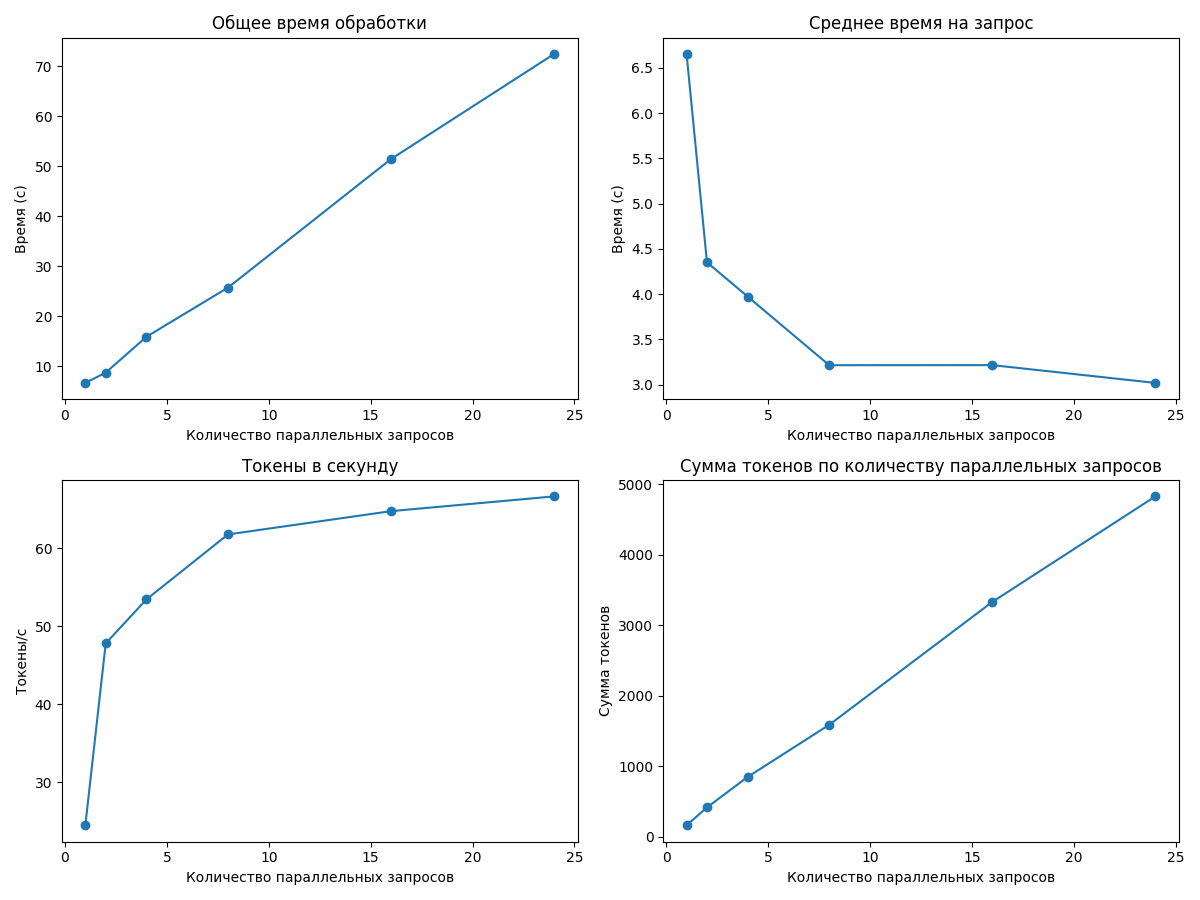
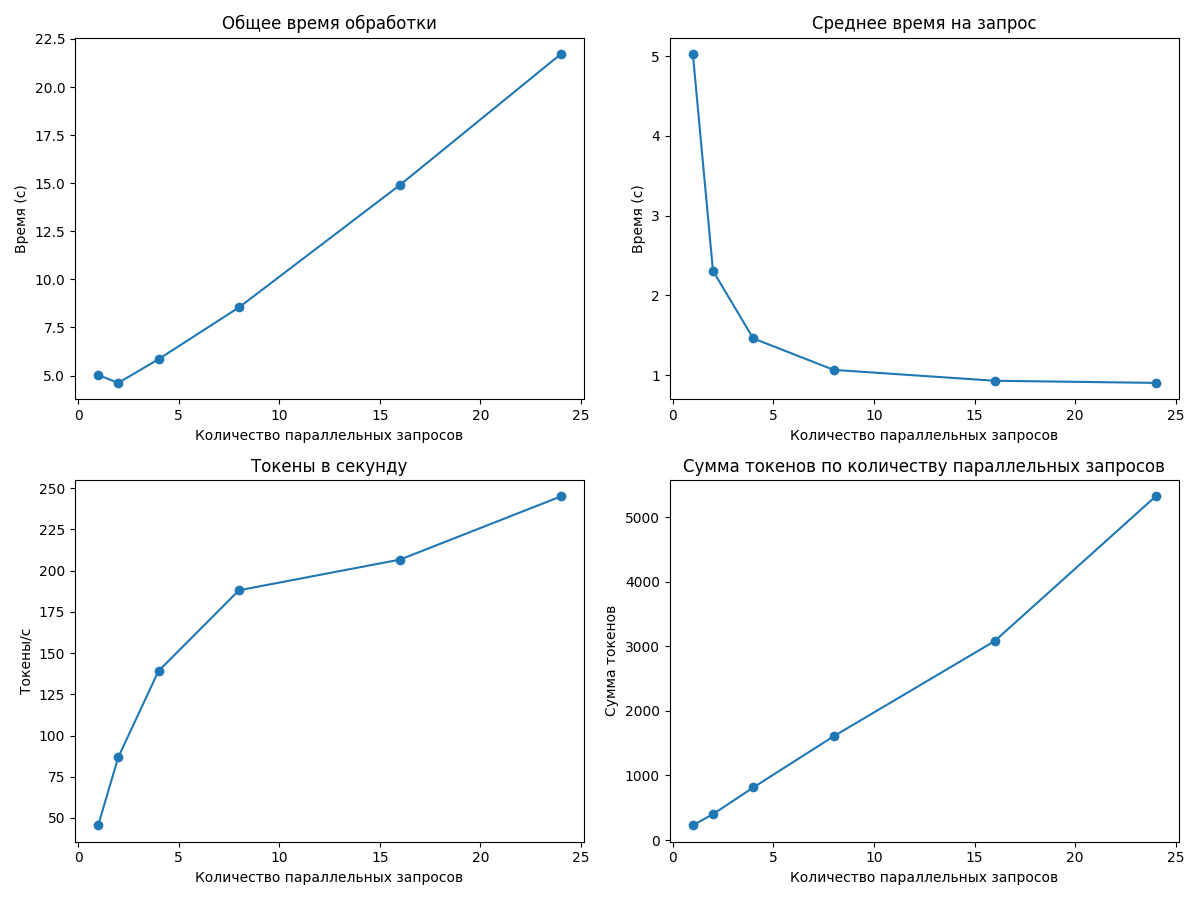
пересобрал отчет

diff --git a/check_speed.py b/check_speed.py
@@ -187,31 +187,31 @@ async def main(parallels:int=8, max_requests:int=10):
 if __name__ == "__main__":
     start_time_all = time.time()
     
-    start_time = time.time()
-    print("Запуск проверки скорости для 4 параллельных запросов (до 30 запросов)")
-    asyncio.run(main(parallels=4, max_requests=30))
-    end_time = time.time()
+    # start_time = time.time()
+    # print("Запуск проверки скорости для 4 параллельных запросов (до 30 запросов)")
+    # asyncio.run(main(parallels=4, max_requests=30))
+    # end_time = time.time()
 
-    print("Запуск проверки скорости для 6 параллельных запросов (до 30 запросов)")
-    start_time = time.time()
-    asyncio.run(main(parallels=6, max_requests=30))
-    end_time = time.time()
+    # print("Запуск проверки скорости для 6 параллельных запросов (до 30 запросов)")
+    # start_time = time.time()
+    # asyncio.run(main(parallels=6, max_requests=30))
+    # end_time = time.time()
 
     print("Запуск проверки скорости для 8 параллельных запросов (до 30 запросов)")
     start_time = time.time()
     asyncio.run(main(parallels=8, max_requests=30))
     end_time = time.time()
 
-    print("Запуск проверки скорости для 10 параллельных запросов (до 30 запросов)")
-    start_time = time.time()
-    asyncio.run(main(parallels=10, max_requests=30))
-    end_time = time.time()
+    # print("Запуск проверки скорости для 10 параллельных запросов (до 30 запросов)")
+    # start_time = time.time()
+    # asyncio.run(main(parallels=10, max_requests=30))
+    # end_time = time.time()
 
-    print("Запуск проверки скорости для 12 параллельных запросов (до 30 запросов)")
-    start_time = time.time()
-    asyncio.run(main(parallels=12, max_requests=30))
-    end_time = time.time()
-    print(f"Завершено за {(end_time - start_time):.2f} секунд")
+    # print("Запуск проверки скорости для 12 параллельных запросов (до 30 запросов)")
+    # start_time = time.time()
+    # asyncio.run(main(parallels=12, max_requests=30))
+    # end_time = time.time()
+    # print(f"Завершено за {(end_time - start_time):.2f} секунд")
     
     start_time = time.time()
     print("Запуск проверки скорости для 15 параллельных запросов (до 30 запросов)")

diff --git a/report.md b/report.md
@@ -6,13 +6,13 @@
 
 |   Количество параллельных запросов |   Оптимальный размер пакета |   Максимальная скорость (токены/сек) |
 |-----------------------------------:|----------------------------:|-------------------------------------:|
-|                                  4 |                          16 |                             153.303  |
-|                                  6 |                          48 |                             189.129  |
-|                                  8 |                          16 |                             201.297  |
-|                                 10 |                          24 |                             219.66   |
-|                                 12 |                          24 |                             247.47   |
-|                                 15 |                          24 |                              66.6348 |
-|                                 20 |                          16 |                             238.849  |
+|                                  4 |                          16 |                              153.303 |
+|                                  6 |                          48 |                              189.129 |
+|                                  8 |                          24 |                              205.065 |
+|                                 10 |                          24 |                              219.66  |
+|                                 12 |                          24 |                              247.47  |
+|                                 15 |                          24 |                              245.023 |
+|                                 20 |                          16 |                              245.086 |
 
 ### Наилучшая конфигурация для данного оборудования
 
@@ -77,16 +77,16 @@
 
 |   Количество параллельных запросов |   Общее время (с) |   Среднее время на запрос (с) |   Токены в секунду |   Сумма токенов |
 |-----------------------------------:|------------------:|------------------------------:|-------------------:|----------------:|
-|                                  1 |           5.15201 |                       5.15201 |            44.4486 |             229 |
-|                                  2 |           4.97919 |                       2.4896  |            86.9619 |             433 |
-|                                  4 |           6.04807 |                       1.51202 |           131.612  |             796 |
-|                                  8 |           9.2728  |                       1.1591  |           177.185  |            1643 |
-|                                 16 |          16.9004  |                       1.05627 |           201.297  |            3402 |
-|                                 24 |          25.738   |                       1.07242 |           194.265  |            5000 |
+|                                  1 |           4.86052 |                       4.86052 |            42.7938 |             208 |
+|                                  2 |           4.31465 |                       2.15733 |            89.2309 |             385 |
+|                                  4 |           5.73824 |                       1.43456 |           134.71   |             773 |
+|                                  8 |           8.55329 |                       1.06916 |           175.254  |            1499 |
+|                                 16 |          17.4805  |                       1.09253 |           196.048  |            3427 |
+|                                 24 |          24.0997  |                       1.00416 |           205.065  |            4942 |
 
-**Оптимальный размер пакета:** 16
+**Оптимальный размер пакета:** 24
 
-**Максимальная скорость обработки:** 201.30 токенов в секунду
+**Максимальная скорость обработки:** 205.06 токенов в секунду
 
 ---
 
@@ -140,16 +140,16 @@
 
 |   Количество параллельных запросов |   Общее время (с) |   Среднее время на запрос (с) |   Токены в секунду |   Сумма токенов |
 |-----------------------------------:|------------------:|------------------------------:|-------------------:|----------------:|
-|                                  1 |           6.6523  |                       6.6523  |            24.5028 |             163 |
-|                                  2 |           8.70186 |                       4.35093 |            47.8059 |             416 |
-|                                  4 |          15.8851  |                       3.97128 |            53.4462 |             849 |
-|                                  8 |          25.7102  |                       3.21377 |            61.7654 |            1588 |
-|                                 16 |          51.4337  |                       3.21461 |            64.7435 |            3330 |
-|                                 24 |          72.4396  |                       3.01832 |            66.6348 |            4827 |
+|                                  1 |           5.02573 |                      5.02573  |            45.5656 |             229 |
+|                                  2 |           4.61775 |                      2.30888  |            86.8388 |             401 |
+|                                  4 |           5.8502  |                      1.46255  |           139.141  |             814 |
+|                                  8 |           8.54367 |                      1.06796  |           188.092  |            1607 |
+|                                 16 |          14.9067  |                      0.931671 |           206.685  |            3081 |
+|                                 24 |          21.7164  |                      0.904848 |           245.023  |            5321 |
 
 **Оптимальный размер пакета:** 24
 
-**Максимальная скорость обработки:** 66.63 токенов в секунду
+**Максимальная скорость обработки:** 245.02 токенов в секунду
 
 ---
 
@@ -161,16 +161,16 @@
 
 |   Количество параллельных запросов |   Общее время (с) |   Среднее время на запрос (с) |   Токены в секунду |   Сумма токенов |
 |-----------------------------------:|------------------:|------------------------------:|-------------------:|----------------:|
-|                                  1 |           5.15044 |                      5.15044  |            44.2681 |             228 |
-|                                  2 |           4.54635 |                      2.27318  |            87.9826 |             400 |
-|                                  4 |           6.00232 |                      1.50058  |           130.45   |             783 |
-|                                  8 |           8.5801  |                      1.07251  |           186.245  |            1598 |
-|                                 16 |          14.1177  |                      0.882358 |           238.849  |            3372 |
-|                                 24 |          21.1606  |                      0.881691 |           237.422  |            5024 |
+|                                  1 |           5.25904 |                      5.25904  |            46.9668 |             247 |
+|                                  2 |           5.36712 |                      2.68356  |            88.6882 |             476 |
+|                                  4 |           7.05565 |                      1.76391  |           128.124  |             904 |
+|                                  8 |           8.4675  |                      1.05844  |           182.817  |            1548 |
+|                                 16 |          13.2199  |                      0.826242 |           245.086  |            3240 |
+|                                 24 |          20.8623  |                      0.869261 |           239.907  |            5005 |
 
 **Оптимальный размер пакета:** 16
 
-**Максимальная скорость обработки:** 238.85 токенов в секунду
+**Максимальная скорость обработки:** 245.09 токенов в секунду
 
 ---
 
